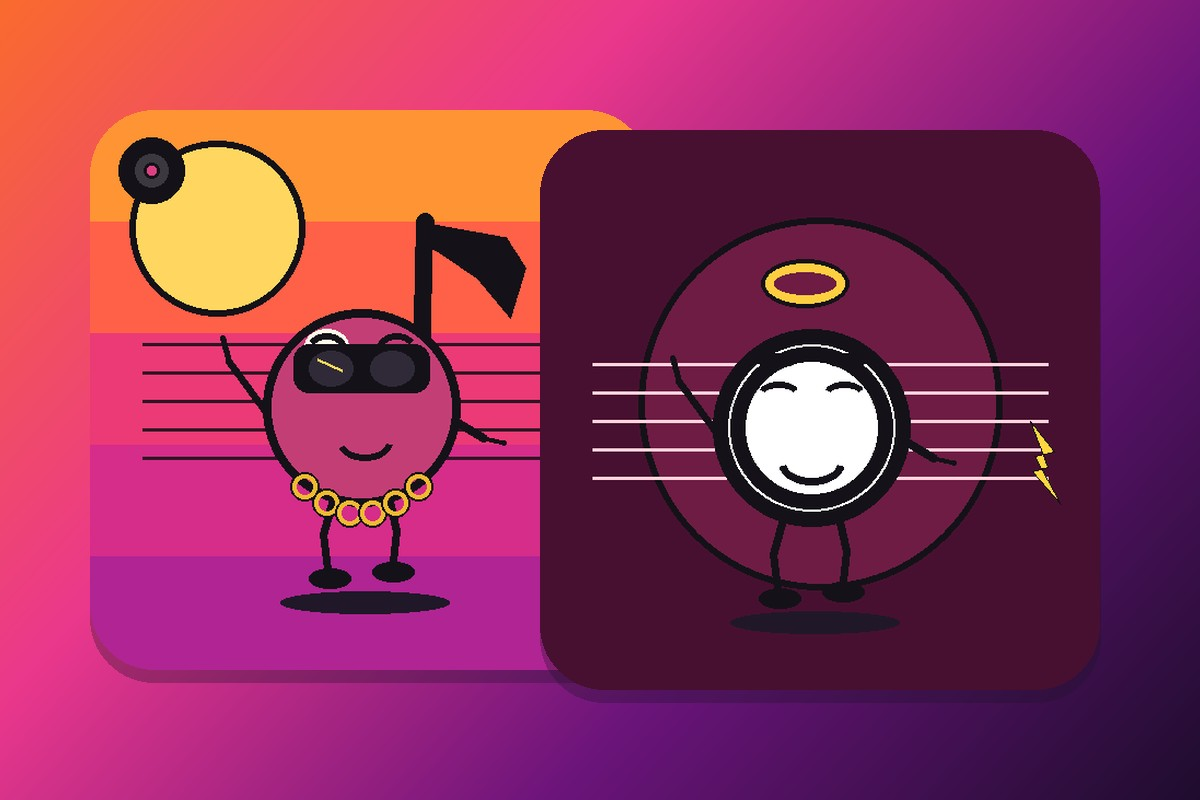
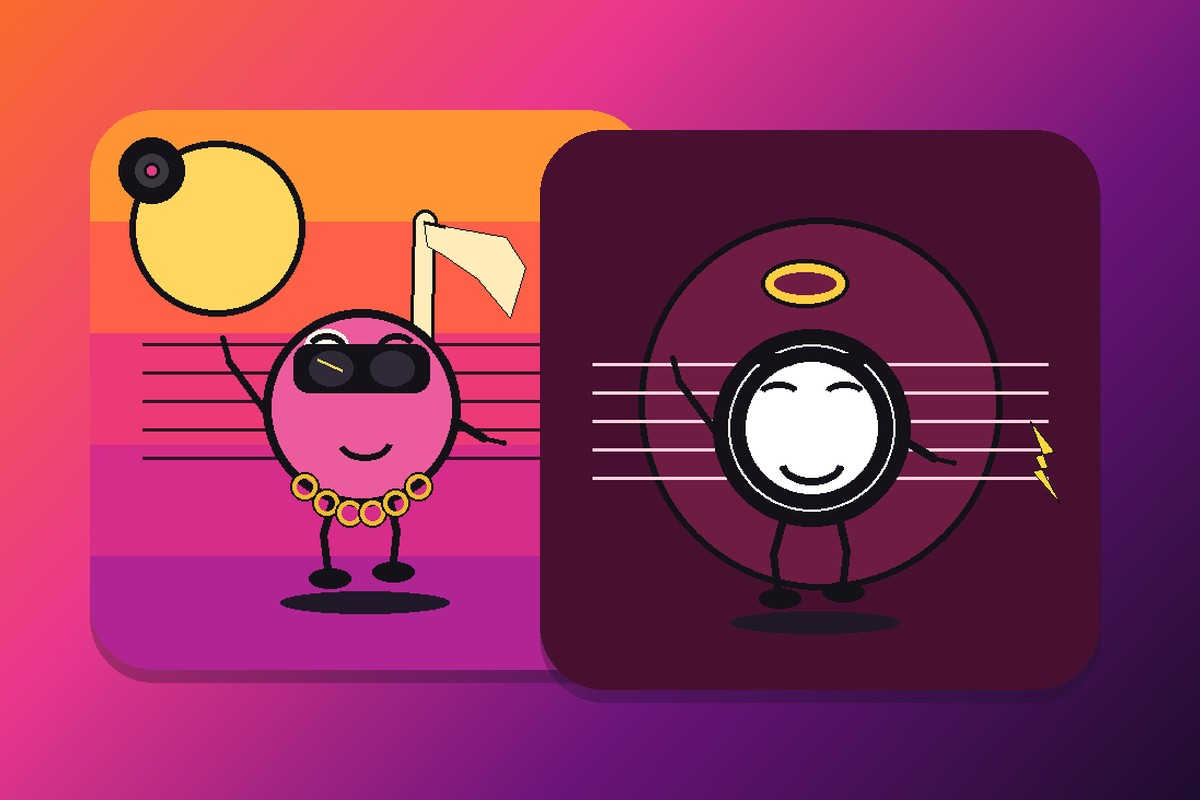
Lighten Groovy note fills so they read on dark stages.
Stems, flags, and beams are cream with a black outline, and the quarter and beamed bodies are brighter so lava and velvet no longer swallow the notation.

Changed region(s): [[0.2158, 0.25, 0.4625, 0.625]]

diff --git a/src/data/groovy-gallery.ts b/src/data/groovy-gallery.ts
@@ -9,7 +9,7 @@ export const groovySamples: GroovySample[] = [
   {
     id: 1,
     name: "Groovy #1",
-    image: "/groovy-preview/1.gif?v=7",
+    image: "/groovy-preview/1.gif?v=8",
     attributes: [
       { trait_type: "Venue", value: "Sunset Strip" },
       { trait_type: "Note", value: "Eighth" },
@@ -22,7 +22,7 @@ export const groovySamples: GroovySample[] = [
   {
     id: 2,
     name: "Groovy #2",
-    image: "/groovy-preview/2.gif?v=7",
+    image: "/groovy-preview/2.gif?v=8",
     attributes: [
       { trait_type: "Venue", value: "Lava Lamp" },
       { trait_type: "Note", value: "Quarter" },
@@ -35,7 +35,7 @@ export const groovySamples: GroovySample[] = [
   {
     id: 3,
     name: "Groovy #3",
-    image: "/groovy-preview/3.gif?v=7",
+    image: "/groovy-preview/3.gif?v=8",
     attributes: [
       { trait_type: "Venue", value: "Disco Floor" },
       { trait_type: "Note", value: "Beamed" },
@@ -48,7 +48,7 @@ export const groovySamples: GroovySample[] = [
   {
     id: 4,
     name: "Groovy #4",
-    image: "/groovy-preview/4.gif?v=7",
+    image: "/groovy-preview/4.gif?v=8",
     attributes: [
       { trait_type: "Venue", value: "Velvet Night" },
       { trait_type: "Note", value: "Whole" },
@@ -61,7 +61,7 @@ export const groovySamples: GroovySample[] = [
   {
     id: 5,
     name: "Groovy #5",
-    image: "/groovy-preview/5.gif?v=7",
+    image: "/groovy-preview/5.gif?v=8",
     attributes: [
       { trait_type: "Venue", value: "Blacklight" },
       { trait_type: "Note", value: "Eighth" },
@@ -74,7 +74,7 @@ export const groovySamples: GroovySample[] = [
   {
     id: 6,
     name: "Groovy #6",
-    image: "/groovy-preview/6.gif?v=7",
+    image: "/groovy-preview/6.gif?v=8",
     attributes: [
       { trait_type: "Venue", value: "Chrome Wash" },
       { trait_type: "Note", value: "Quarter" },
@@ -87,7 +87,7 @@ export const groovySamples: GroovySample[] = [
   {
     id: 7,
     name: "Groovy #7",
-    image: "/groovy-preview/7.gif?v=7",
+    image: "/groovy-preview/7.gif?v=8",
     attributes: [
       { trait_type: "Venue", value: "Sunset Strip" },
       { trait_type: "Note", value: "Whole" },
@@ -100,7 +100,7 @@ export const groovySamples: GroovySample[] = [
   {
     id: 8,
     name: "Groovy #8",
-    image: "/groovy-preview/8.gif?v=7",
+    image: "/groovy-preview/8.gif?v=8",
     attributes: [
       { trait_type: "Venue", value: "Lava Lamp" },
       { trait_type: "Note", value: "Beamed" },
@@ -113,7 +113,7 @@ export const groovySamples: GroovySample[] = [
   {
     id: 9,
     name: "Groovy #9",
-    image: "/groovy-preview/9.gif?v=7",
+    image: "/groovy-preview/9.gif?v=8",
     attributes: [
       { trait_type: "Venue", value: "Disco Floor" },
       { trait_type: "Note", value: "Eighth" },
@@ -126,7 +126,7 @@ export const groovySamples: GroovySample[] = [
   {
     id: 10,
     name: "Groovy #10",
-    image: "/groovy-preview/10.gif?v=7",
+    image: "/groovy-preview/10.gif?v=8",
     attributes: [
       { trait_type: "Venue", value: "Velvet Night" },
       { trait_type: "Note", value: "Quarter" },
@@ -139,7 +139,7 @@ export const groovySamples: GroovySample[] = [
   {
     id: 11,
     name: "Groovy #11",
-    image: "/groovy-preview/11.gif?v=7",
+    image: "/groovy-preview/11.gif?v=8",
     attributes: [
       { trait_type: "Venue", value: "Blacklight" },
       { trait_type: "Note", value: "Whole" },
@@ -152,7 +152,7 @@ export const groovySamples: GroovySample[] = [
   {
     id: 12,
     name: "Groovy #12",
-    image: "/groovy-preview/12.gif?v=7",
+    image: "/groovy-preview/12.gif?v=8",
     attributes: [
       { trait_type: "Venue", value: "Chrome Wash" },
       { trait_type: "Note", value: "Beamed" },
@@ -165,7 +165,7 @@ export const groovySamples: GroovySample[] = [
   {
     id: 13,
     name: "Groovy #13",
-    image: "/groovy-preview/13.gif?v=7",
+    image: "/groovy-preview/13.gif?v=8",
     attributes: [
       { trait_type: "Venue", value: "Sunset Strip" },
       { trait_type: "Note", value: "Quarter" },
@@ -178,7 +178,7 @@ export const groovySamples: GroovySample[] = [
   {
     id: 14,
     name: "Groovy #14",
-    image: "/groovy-preview/14.gif?v=7",
+    image: "/groovy-preview/14.gif?v=8",
     attributes: [
       { trait_type: "Venue", value: "Lava Lamp" },
       { trait_type: "Note", value: "Eighth" },
@@ -191,7 +191,7 @@ export const groovySamples: GroovySample[] = [
   {
     id: 15,
     name: "Groovy #15",
-    image: "/groovy-preview/15.gif?v=7",
+    image: "/groovy-preview/15.gif?v=8",
     attributes: [
       { trait_type: "Venue", value: "Disco Floor" },
       { trait_type: "Note", value: "Whole" },
@@ -204,7 +204,7 @@ export const groovySamples: GroovySample[] = [
   {
     id: 16,
     name: "Groovy #16",
-    image: "/groovy-preview/16.gif?v=7",
+    image: "/groovy-preview/16.gif?v=8",
     attributes: [
       { trait_type: "Venue", value: "Velvet Night" },
       { trait_type: "Note", value: "Beamed" },

diff --git a/src/app/groovy/gallery/page.tsx b/src/app/groovy/gallery/page.tsx
@@ -55,7 +55,7 @@ export default function GroovyGalleryPage() {
         {extraPreviews.map((id) => (
           <article key={id} className="overflow-hidden rounded-2xl border bg-card">
             <ApngImage
-              src={`/groovy-preview/${id}.gif?v=7`}
+              src={`/groovy-preview/${id}.gif?v=8`}
               alt={`Groovy #${id}`}
               width={512}
               height={512}

diff --git a/src/data/groovy-traits.ts b/src/data/groovy-traits.ts
@@ -14,7 +14,7 @@ export type GroovyTraitCategory = {
 };
 
 /** Bump when APNG layers change so the studio does not keep a stale loop. */
-export const GROOVY_ART_VERSION = "groovy-v7";
+export const GROOVY_ART_VERSION = "groovy-v8";
 
 export const GROOVY_FRAMES = 12;
 export const GROOVY_DURATION_MS = 90;

diff --git a/scripts/build_groovy.py b/scripts/build_groovy.py
@@ -38,6 +38,7 @@ SRC_DATA = ROOT / "src" / "data"
 INK = (20, 18, 24, 255)
 WHITE = (255, 255, 255, 255)
 TONGUE = (236, 118, 148, 255)
+NOTE_INK = (255, 236, 186, 255)
 STROKE = 8
 LIMB = 7
 
@@ -55,10 +56,10 @@ CABLES = ("none", "chain", "cans", "mic")
 RIFFS = ("none", "treble", "vinyl", "stars", "bolt")
 
 NOTE_FILL = {
-    "quarter": (86, 102, 128, 255),
-    "eighth": (196, 62, 118, 255),
-    "whole": (240, 236, 246, 255),
-    "beamed": (42, 168, 158, 255),
+    "quarter": (156, 186, 224, 255),
+    "eighth": (236, 92, 156, 255),
+    "whole": (255, 250, 240, 255),
+    "beamed": (110, 236, 208, 255),
 }
 
 
@@ -235,6 +236,11 @@ def draw_limbs(draw: ImageDraw.ImageDraw, hx: float, hy: float, swing: float) ->
     draw.ellipse((rf[0] - 18, rf[1] - 8, rf[0] + 20, rf[1] + 10), fill=INK)
 
 
+def draw_stem(draw: ImageDraw.ImageDraw, a: tuple[float, float], b: tuple[float, float]) -> None:
+    draw_line(draw, a, b, INK, STEM_W + 6)
+    draw_line(draw, a, b, NOTE_INK, STEM_W)
+
+
 def draw_flag(draw: ImageDraw.ImageDraw, tx: float, ty: float) -> None:
     pts = [
         (tx - 1, ty),
@@ -246,7 +252,8 @@ def draw_flag(draw: ImageDraw.ImageDraw, tx: float, ty: float) -> None:
         (tx + 16, ty + 30),
         (tx + 2, ty + 22),
     ]
-    draw.polygon(pts, fill=INK)
+    draw.polygon(pts, fill=NOTE_INK, outline=INK)
+    draw.line((pts[0][0], pts[0][1], pts[1][0], pts[1][1]), fill=INK, width=4)
 
 
 def draw_notehead(draw: ImageDraw.ImageDraw, hx: float, hy: float, fill, hollow: bool = False) -> None:
@@ -271,22 +278,17 @@ def paint_note(kind: str, frame: int) -> Image.Image:
     draw_limbs(draw, hx, hy, swing)
 
     if kind != "whole":
-        draw_line(draw, (sx, sy), (tx, ty), INK, STEM_W)
+        draw_stem(draw, (sx, sy), (tx, ty))
 
     if kind == "eighth":
         draw_flag(draw, tx, ty)
     elif kind == "beamed":
         hx2, hy2 = hx + 128, hy + 16
         sx2, sy2, tx2, ty2 = stem_xy(hx2, hy2)
-        draw_line(draw, (sx2, sy2), (tx2, ty2), INK, STEM_W)
-        draw.polygon(
-            [(tx - 4, ty + 2), (tx2 + 6, ty2 + 2), (tx2 + 6, ty2 + 24), (tx - 4, ty + 24)],
-            fill=INK,
-        )
-        draw.polygon(
-            [(tx - 4, ty + 34), (tx2 + 6, ty2 + 34), (tx2 + 6, ty2 + 50), (tx - 4, ty + 50)],
-            fill=INK,
-        )
+        draw_stem(draw, (sx2, sy2), (tx2, ty2))
+        for y0, y1 in ((2, 24), (34, 50)):
+            beam = [(tx - 4, ty + y0), (tx2 + 6, ty2 + y0), (tx2 + 6, ty2 + y1), (tx - 4, ty + y1)]
+            draw.polygon(beam, fill=NOTE_INK, outline=INK)
         draw_notehead(draw, hx2, hy2, fill)
 
     draw_notehead(draw, hx, hy, fill, hollow=(kind == "whole"))
@@ -446,9 +448,12 @@ def paint_riff(kind: str, frame: int) -> Image.Image:
     ox, oy = math.sin(t) * 8, math.cos(t * 1.2) * 10
     if kind == "treble":
         x, y = 454 + ox, 118 + oy
-        draw.arc((x - 18, y - 40, x + 28, y + 8), 200, 40, fill=(240, 186, 48, 255), width=8)
-        draw.arc((x - 22, y, x + 24, y + 48), 20, 200, fill=(240, 186, 48, 255), width=8)
-        draw_circle(draw, x + 4, y + 58, 8, (240, 186, 48, 255), INK, 3)
+        gold = (255, 224, 96, 255)
+        draw.arc((x - 18, y - 40, x + 28, y + 8), 200, 40, fill=INK, width=12)
+        draw.arc((x - 22, y, x + 24, y + 48), 20, 200, fill=INK, width=12)
+        draw.arc((x - 18, y - 40, x + 28, y + 8), 200, 40, fill=gold, width=8)
+        draw.arc((x - 22, y, x + 24, y + 48), 20, 200, fill=gold, width=8)
+        draw_circle(draw, x + 4, y + 58, 8, gold, INK, 3)
     elif kind == "vinyl":
         x, y = 56 + ox * 0.3, 52 + oy * 0.3
         draw_circle(draw, x, y, 30, INK)
@@ -681,7 +686,7 @@ def write_ts_gallery(samples: list[dict]) -> None:
             "  {\n"
             f"    id: {sample['id']},\n"
             f'    name: "{sample["name"]}",\n'
-            f'    image: "{sample["image"]}?v=7",\n'
+            f'    image: "{sample["image"]}?v=8",\n'
             f"    attributes: [\n      {attrs},\n    ],\n"
             "  }"
         )
